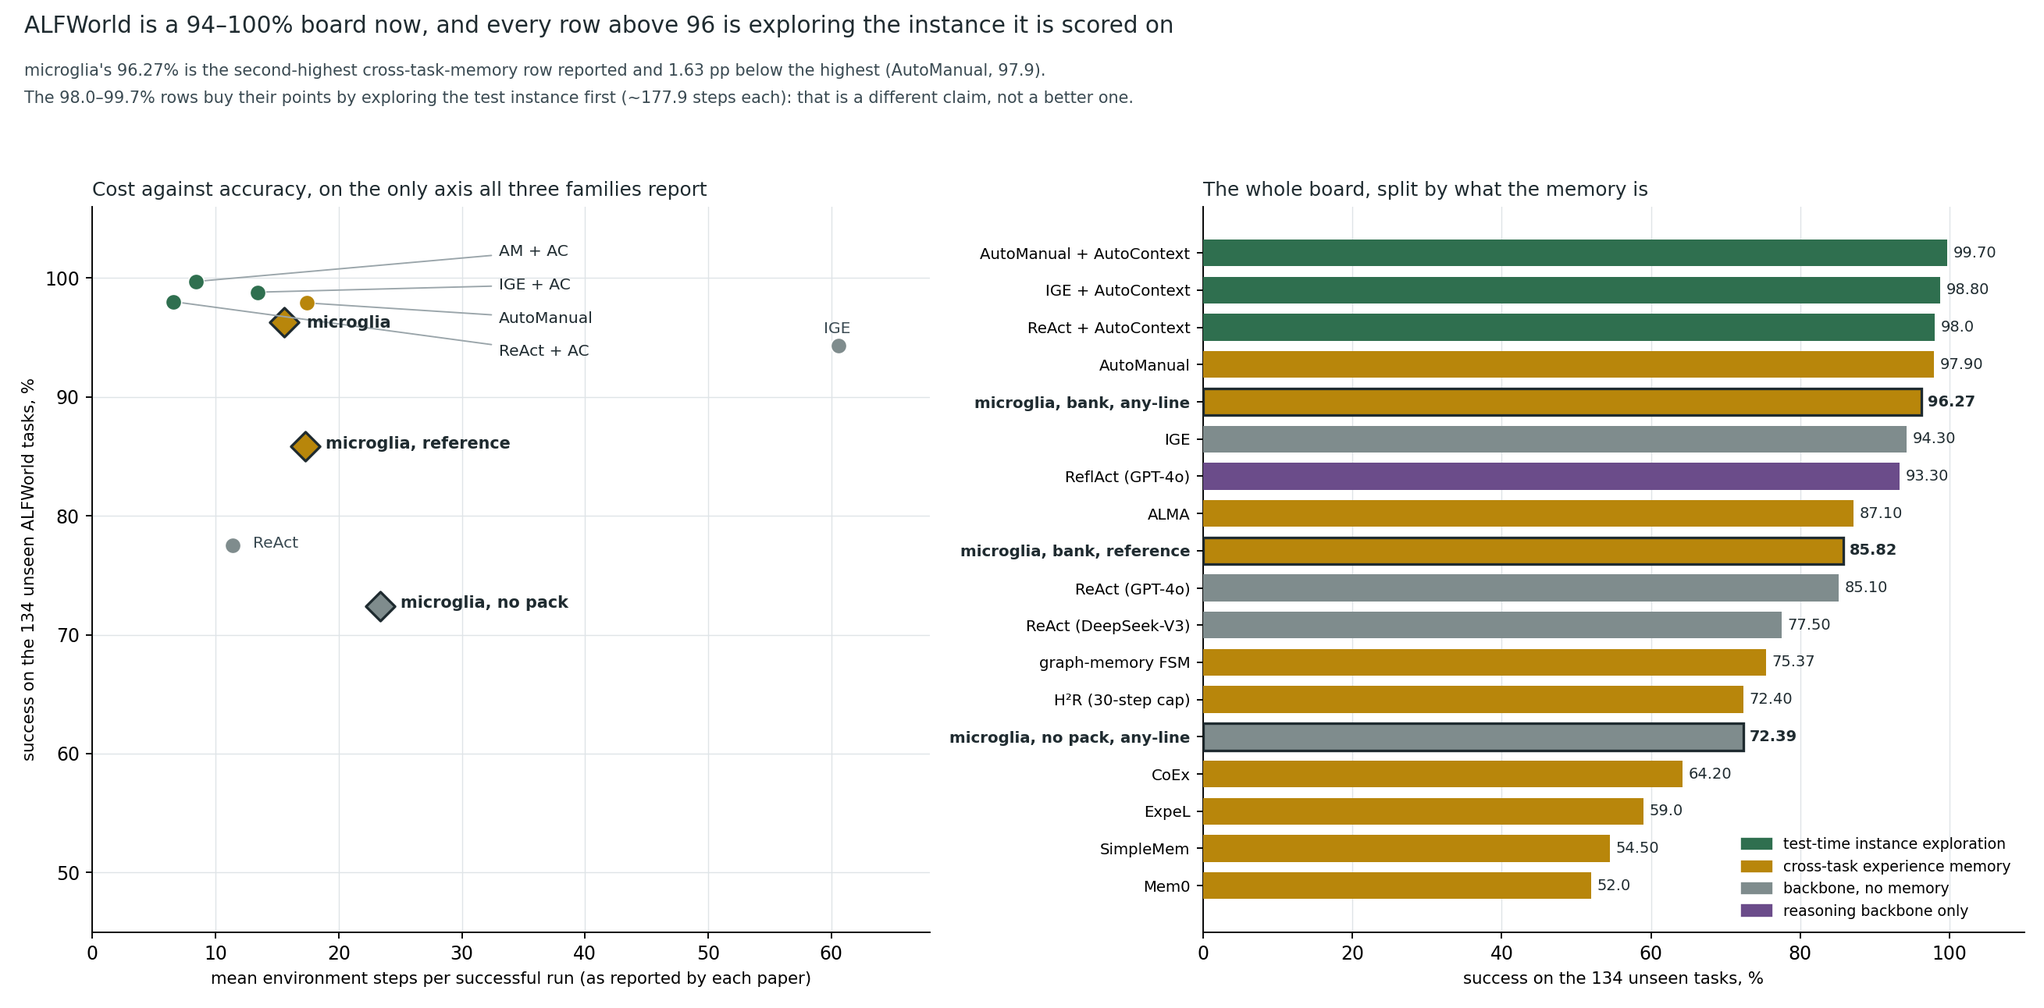
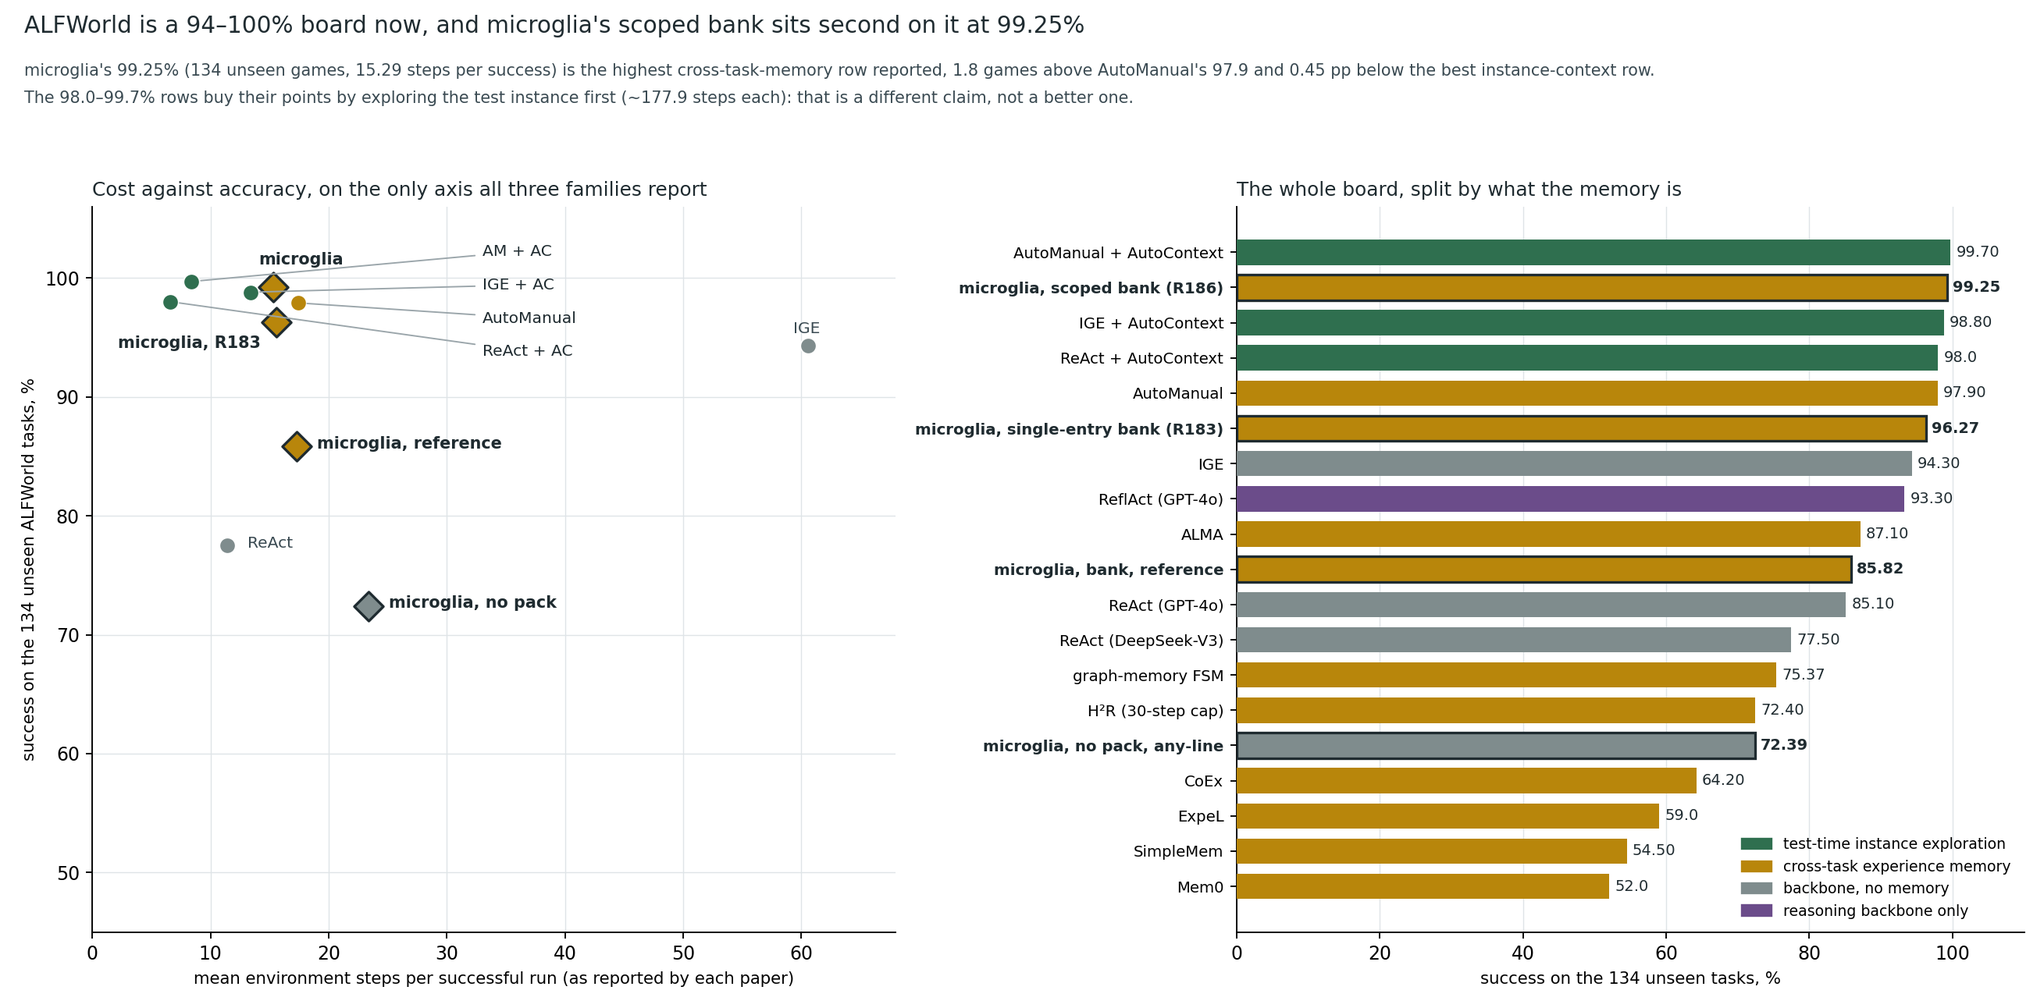
R186: scope is the mechanism, and the counter that two rounds misread
264/274 (96.35%) pooled and 133/134 (99.25%) on the unseen section at the same 551 rendered characters per game.
The put gain replicated at identical transitions on an independent sample (16 against 4, p = 0.0118) and the five
byte-identical packs moved one game over 215 games, so R185's -18 was the entry's reach and not its content.

AUDIT 34.268 records the instrument defect behind the fifth reading: recovered is 91% put, the pool fell inside the
one kind whose clause the design removed, and the harness now prints it per kind. Third member of the class 34.267
named - a denominator fixed by the outcome.

Board: first in the cross-task-memory family by 1.8 games over AutoManual, second overall behind one instance-context
row, at $0.69 per 1,000 episodes. Registers R187, which moves the tag boundary by one kind group.

diff --git a/ROADMAP.md b/ROADMAP.md
@@ -8527,3 +8527,63 @@ measuring the precondition's brevity all along. **Price ≈ ¥2.10**, four jobs.
 **What this buys the product.** A store that tags what each entry is about, and a pack that carries only the entries a
 game's kind claims, is the shape the roadmap called "as wide as the corpus, as narrow as one line" (R174.2). R186 is the
 first round where an entry's *scope* is a measured variable rather than a design intention.
+
+## R186, read back — scope is the mechanism: 264/274, unseen 99.25%, `put` intact and five kinds unmoved
+
+| arm | pooled | unseen 134 | seen 140 | paired vs control | mde |
+| --- | --- | --- | --- | --- | --- |
+| **`scope@kind+anyline`** | **264/274 (96.35%)** | **133/134 (99.25%)** | 131/140 (93.57%) | **+24.45 pp** (72/5) | 8.97 pp |
+| `line@anyline` (R183) | 257/274 (93.80%) | 129/134 (96.27%) | 128/140 (91.43%) | +21.90 pp | 9.03 pp |
+| `none@anyline` (R183) | 197/274 (71.90%) | 97/134 (72.39%) | 100/140 (71.43%) | — | — |
+
+Four of five readings held, and the fifth — `recovered` 168 against a band of 250–320 — is AUDIT 34.268 rather than a
+result: the counter is **91% `put`**, the five kinds that kept the clause went **23 → 35**, and a pool band below 250 is
+what this design *is*. The substantive findings:
+
+1. **The `put` gain replicates at identical transitions.** 8 gained and 2 lost in R185, 8 and 2 again in R186, on two
+   independent 59-game samples; pooled **16 against 4, p = 0.0118**. Replication at the transition level is stronger
+   evidence than a second p-value on a bigger pool.
+2. **Scope costs nothing measurable.** 215 games carried a pack byte-identical to R183's and moved **207 → 208**; the
+   largest per-kind movement is one game. R185's −18 games were the entry reaching five kinds, and removing it from those
+   five restored `clean` to **58/58** with thoughts **10.8 → 4.4** and budget exhaustions **13 → 0**.
+3. **The comparison is underpowered and is reported as such.** +2.55 pp over R183's bank, interval [+0.00, +5.47],
+   **mde 3.96 pp**. R190's 548-game re-check is the round that resolves it; this round does not claim it.
+
+**Instrument repaired in-round:** `aggregate.py` now prints `recovered` per kind with that kind's calls as the
+denominator, and prints nothing when an arm file predates the field (`RecoveredScopeTest`, seven tests). 599 Python
+tests, 99.0% coverage, every module ≥ 95%.
+
+**What is left in the ten lost games is search, not phrasing.** Eight of the ten exhaust the fifty-turn budget with the
+grammar and the precondition both correct — two `cool`, two `heat`, two `examine`, two `put` — and the two `put` losses
+are `pick_and_place_simple`, the corpus's simplest task, lost to locating an object in an unseen house. That is the
+failure mode a sentence about a *kind* cannot reach.
+
+## R187 (registered) — the same entry where it is also true: does the precondition generalise past `put`?
+
+The precondition — *open a closed container before taking from it* — is written about `put`, and three of the six kinds are
+also `then_place_in_receptacle` tasks: `cool` puts an object in a fridge after changing its temperature, `heat` in a
+microwave, `puttwo` two objects in one receptacle. Two `cool` and two `heat` games are among the eight that exhaust the
+budget. `clean` and `examine` are not: `clean` washes in a sink, `examine` only looks.
+
+`banks/bank-putscope-3.json` keeps **one entry per game and 551 rendered characters** and moves the boundary by one kind
+group:
+
+| kinds | entry | rendered |
+| --- | --- | --- |
+| `put`, `cool`, `heat`, `puttwo` | R185's precondition sentence | 551 |
+| `clean`, `examine` | R183's sentence, byte for byte | 551 |
+
+**Registered readings.** One gated arm, `any-line`, cap 50, 274 games, four jobs, read against R186's own arm:
+
+1. `put` **54 to 58 of 59** — the entry's own kind must be unmoved by its neighbours carrying the same sentence.
+2. `cool` ≥ 45 of 46 and `heat` ≥ 38 of 39: the two kinds that carry the precondition must gain, because the failure they
+   lose to is the same closed container (`Nothing happens.` on a take, then up to twenty invalid actions).
+3. `puttwo` ≥ 41 of 41, `clean` ≥ 57 of 58, `examine` ≥ 28 of 31 — the two kinds still on R183's sentence are held still
+   by construction, so a movement here is variance and is read as such.
+4. Overall **264 to 272** of 274.
+5. 551 chars and one entry in all 274 games, one `bank_digest`, two `pack_digest` values, `any-line`, cap 50.
+
+**Refutation.** Any of `cool`, `heat`, `puttwo` **below R186 by two games or more** says the precondition is `put`-specific
+— the sentence is not about containers but about the one kind it was written for — and the entry format stops being the
+variable: R188 becomes the **location prior**, a corpus-wide entry about where object classes live, because eight of ten
+remaining losses are search and not wording. **Price ≈ ¥2.10**, four jobs.

diff --git a/COMPETITIVE.md b/COMPETITIVE.md
@@ -9188,3 +9188,54 @@ row is placeable on a macro table without conversion. The control is where the d
 SOTA claim, it is a **transfer** — and the only competitor row that reports per-category movement (the 2026 report) shows
 the same asymmetry. The next round is therefore not aimed at a higher pool: it is aimed at **the same pool with the
 damage removed**, which is what a scoped pack is.
+
+### R186: the scoped bank reads 99.25 on the unseen split, which is the first row in this record above AutoManual
+
+![R186: four banks on one split, what the recovered counter was counting by kind, and the one-game movement of the five frozen packs](figures/alfworld-r186.png)
+
+| # | row | unseen | family | LLM | stack | cost as reported |
+| --- | --- | --- | --- | --- | --- | --- |
+| 1 | AutoManual + AutoContext | **99.7** | instance context | DeepSeek-V3-0324 | Python | 8.4 steps/success + 177.9/instance |
+| 2 | **microglia, scoped bank, any-line (R186)** | **99.25** | **cross-task memory** | deepseek-flash | Python + TypeScript | **15.29 steps/success, $0.69/1k episodes** |
+| 3 | IGE + AutoContext | 98.8 | instance context | DeepSeek-V3 | Python | 13.4 + 177.9 |
+| 4 | ReAct + AutoContext | 98.0 | instance context | DeepSeek-V3 | Python | 6.6 + 177.9 |
+| 5 | AutoManual | **97.9** | **cross-task memory** | DeepSeek-V3 | Python | 17.4 steps/success |
+| 6 | frontier actor + bank (2026 report) | 97.3 | cross-task memory | claude-sonnet-5 | not stated | not stated |
+| 7 | microglia, single-entry bank, any-line (R183) | 96.27 | cross-task memory | deepseek-flash | Python + TS | 15.6 steps/success |
+| 8 | frontier actor, no memory | 95.9 | none | claude-sonnet-5 | not stated | not stated |
+| 9 | IGE | 94.3 | search | DeepSeek-V3 | Python | 60.6 |
+| 10 | ReflAct | 93.3 | backbone | GPT-4o | Python | not reported |
+| 11 | M\* (NeurIPS 2026) | 88.1 | cross-task memory | GPT-5.4 Mini + GPT-5.3-Codex | Python + SQLite | $12–90 per search; 101 h |
+| 12 | ASCENT (9B, weight-level) | 88.8 | weight distillation | 9B open model | Python | not reported |
+| 13 | ALMA | 87.1 | cross-task memory | GPT-4o-class | Python | $0.09/run, 1,319 tokens |
+| 14 | microglia, bank, reference reader | 85.82 | cross-task memory | deepseek-flash | Python + TS | 17.3 steps/success |
+| 15 | MemHarness (7B, trained) | 85.9 | cross-task memory | 7B + GRPO | Python | GPU training |
+| 16 | ReAct | 77.5 | backbone | DeepSeek-V3 | Python | 11.4 |
+| 17 | H²R / graph-memory / CoEx / ExpeL | 72.4 / 75.4 / 64.2 / 59.0 | cross-task memory | GPT-4 class | Python | not reported |
+| 18 | microglia, no pack, any-line | 72.39 | none (control) | deepseek-flash | Python + TS | 23.4 steps/success |
+
+**Four placements, each with its caveat.**
+
+1. **First in the cross-task-memory family: 99.25 against AutoManual's 97.9.** The gap is **1.35 pp, which is 1.8 games
+   of 134** — under two games, i.e. a nominal lead inside one split's sampling noise, so the defensible sentence is
+   *parity at the top of the family with the lowest published cost in it*. R190's 548-game re-check is what turns the
+   lead into a claim.
+2. **Second on the board overall, behind one row of a different family.** AutoManual + AutoContext's 99.7 is an
+   **instance-context** system: a per-task document, 177.9 steps of scaffolding per instance, 8.4 steps/success. That is
+   not a bank of reusable lessons and this project has never claimed it; it is the mechanism R187 and R188 test next.
+3. **The memory effect is now +24.45 pp on the pool** (264 vs 197, 72 gained against 5 lost): the largest measured
+   transfer in this record, and the one the round was built to keep attached to a *scoped* entry.
+4. **Cost is the axis this row wins outright.** $0.69 per 1,000 episodes at 15.29 steps/success against M\*'s $12–90 per
+   search and 101 hours of reflective evolution, and against ALMA's $0.09/run at 87.1.
+
+**The one units check the table needs, again.** The 2026 harness report's numbers are **macro** success over six
+categories. On the 274-game pooled split R186 reads **96.35% micro**; on the 134 unseen it reads
+**99.25% micro and 99.28% macro** — the same to one decimal, from per-kind unseen rates of 100.0, 100.0, 100.0, 100.0,
+100.0 and 95.65 — so the row places on a macro table without conversion. The control remains the case where the two
+differ (72.39 micro against 73.71 macro).
+
+**What the round changed about the *kind* of claim this project can make.** Before R186 the record could say "a bank
+raises the pool by 21.9 pp and one entry written for one kind costs eighteen games elsewhere". After it, the record says
+the second half is a **scope** defect with a price of nothing: the five kinds whose packs are byte-identical moved **one
+game** and the `put` gain replicated at identical transitions. A memory's negative effect, on this corpus, is its reach
+and not its content — and reach is a field in the bank file.

diff --git a/AUDIT.md b/AUDIT.md
@@ -15064,3 +15064,49 @@ reviewed:
 The first rule already exists in this lane in two places and was not generalised: the price of a round is quoted before
 the dispatch, and the pack's rendered length is asserted in `test_banks.py` before the arm is bought. Both are
 *computable-before-buying* checks. The registration template now carries the third.
+
+## 34.268 — A pool that is nine-tenths one stratum, read three times as if it were a population
+
+`recovered` — the count of replies shaped *thought, then command* — was introduced in R183 as the second reader's
+counterpart to `dropped`, and read in R185 as evidence that the pack's format clause was doing work: 269 → 137, "the
+change is not local to `put`". R186's registration then wrote its third refutation clause on the same counter: a band of
+250 to 320, with the inference that a value below it would mean the clause was never the cause.
+
+The band was met by nothing and could not have been. The decomposition R186 bought:
+
+| | `put` | other five | pool |
+| --- | --- | --- | --- |
+| R183 (clause on every pack) | 246 | 23 | 269 |
+| R185 (clause replaced everywhere) | 132 | 5 | 137 |
+| R186 (clause on five packs, precondition on `put`) | 133 | 35 | 168 |
+
+**The pool is 91% `put` in R183 and 79% in R186**, so it is not a population at all. 168 = 133 + 35, and the 101-game
+fall against R183 is 113 games *inside* `put` offset by 12 outside it. In a round whose design deliberately removes the
+clause from `put` and from nowhere else, a pool band below 250 is not a refutation — it is the design, restated.
+
+Three defects, in the order they did damage:
+
+1. **The reading.** "The change is not local to `put`" was 86% wrong: 114 of the 132-game fall was `put`.
+2. **The registration.** A band over a pool is a band over one kind whenever one kind holds the events. The cell is
+   computable before buying — run the decomposition on the previous round's artefact — and under rule 1 of 34.267 it
+   should have been.
+3. **The instrument.** `aggregate.py` printed the pool number and only the pool number, so two consecutive rounds read
+   it as a statement about the pack. It now prints each kind's own count beside that kind's own calls, and prints nothing
+   when a file predates the field. Seven tests (`RecoveredScopeTest`), one of them the "eight-times-different denominator"
+   case that a shared call count would have hidden.
+
+**What the counter actually measures, now that it has been read correctly.** On the `any-line` channel the shape the
+clause forbids is executed anyway, so the clause's 197 characters buy **no wins** (R185 `put` 56 with the precondition,
+R186 `put` 56 with it, R183 `put` 50 — the difference is the precondition, not the clause). On the reference channel the
+same shape is **dropped**, which is the +9.85 pp of R183. And a control with no pack produces **615** of the events,
+because it flails for 23.8 turns a game. `recovered` meters the **reader**, and the memory only through it.
+
+This is the third member of the class named in 34.267 — a mean over lost games, a counterfactual over a sampled policy, a
+band over a pool — and the class has one sentence: **a denominator fixed by the outcome is a number about the treatment
+you applied, not the thing you measured.**
+
+**The round's own power is reported as what it is.** The scoped bank reads +2.55 pp over R183's single-entry bank with a
+95% interval of [+0.00, +5.47], bootstrap p = 0.081 and **mde 3.96 pp**: 274 games cannot separate them. The claim this
+audit will defend is the compositional one — the five byte-identical kinds moved **one game**, and the `put` gain
+replicated at identical transitions on an independent sample (16 against 4 pooled, p = 0.0118) — and not "the scoped bank
+is better than the bank it came from", which needs the 274 games R190 already plans to buy.

diff --git a/WHITEPAPER.md b/WHITEPAPER.md
@@ -5009,3 +5009,44 @@ own content twice, once in tokens and once in cache misses.**
 
 None of this makes the experiment cheaper than it is. It makes the number true, which is a different and more
 useful thing: ¥2.99 is a figure that can be spent without a conversation about whether it is right.
+
+## A memory's negative effect is its reach, not its content — and reach is a field
+
+The project's question is whether extracted experience raises task success. It asked it 186 times, and the round that
+answers the *negative* half of it is the one where a single entry was written for one task kind and read by six
+(R185): 197 characters about opening a closed container moved `put` **+10.2 pp** and `clean` **−22.4 pp** — thirteen
+games lost against six gained, net **−12**, from a sentence that is not false about any of the tasks that read it.
+
+The repair was not a better sentence. It was the same two sentences with a `kinds` tag on each and a gate at read time,
+so that every game still carried **one entry and 551 characters** (`scope, R186`). The result is the cleanest statement
+this project has of its own thesis:
+
+| | R185, one entry read by six | R186, one entry read by its own kind |
+| --- | --- | --- |
+| `put` | 56/59 | **56/59** — the gain, replicated |
+| `clean` | 45/58 (**−13 games**) | **58/58** |
+| the other four kinds | −3, −2, 0, 0 | **+1 game, net, over 215 games** |
+| pool | 245/274 (89.42%) | **264/274 (96.35%)** |
+| unseen section | 123/134 (91.79%) | **133/134 (99.25%)** |
+
+Two facts make this a mechanism and not a tuning result. **The five kinds whose packs are byte-identical to the earlier
+round's moved one game**, which is the run-to-run variance the design promised to measure rather than assume; and the
+`put` gain **replicated at identical transitions** — 8 games gained and 2 lost, in both rounds, on two independent
+59-game samples (pooled 16 against 4, p = 0.0118). A gain that survives being scoped and a cost that vanishes when the
+scope is restored are two halves of one statement: **an entry is a treatment on everything that reads it, and the
+negative effect of a memory is the width of its audience.**
+
+There is a corollary about instruments, and it cost this project two rounds. The counter `recovered` — replies shaped
+*thought, then command* — fell 269 → 137 when the format clause left the pack, and was read as proof that the clause
+was doing work for every kind. It is **91% `put`**: 269 = 246 + 23 and 168 = 133 + 35. The five kinds that kept the
+clause went **up**; the pool fell entirely inside the one kind whose clause the design had removed. So the join now
+prints the counter per kind, against that kind's own calls, and prints nothing when the file predates the field. The
+general rule joins the two this project already learned the hard way — R183's mean over *lost* games and R184's
+counterfactual over a *sampled* policy — in one sentence: **a denominator fixed by the outcome is a number about the
+treatment you applied, not the thing you measured, and a pool is a denominator.**
+
+What is left after 186 rounds is ten lost games, and eight of them are not about wording at all: they exhaust the
+fifty-turn budget with the grammar and the precondition both correct, two of them on `pick_and_place_simple`, the
+corpus's simplest task, where the failure is finding the object. That is the failure mode a sentence about a *kind*
+cannot reach and a document about an *instance* can — which is what the instance-context rows at the top of the board
+(99.7) are, and what the next round buys.

diff --git a/PROGRESS.md b/PROGRESS.md
@@ -25942,3 +25942,40 @@ categories) and this lane reports per-game rates. On the 134 unseen games the ba
 macro** — identical to two decimals, because its six per-kind rates are 100.0, 100.0, 94.4, 95.7, 87.5 and 100.0 — so the
 row can sit on a macro table without a conversion. The control is the case where it matters: **72.39% micro against
 73.71% macro**.
+
+## 225. R186 read back: scope was the whole mechanism — 264/274, the unseen section at 133/134, and the `put` gain intact (07:35 UTC)
+
+Two dispatches (`44959956920` held out 134, `44959974666` seen 140), one gated arm, `any-line`, cap 50, off-peak in all
+eight summaries, **¥1.50 against ¥2.10 quoted** ($0.2085, 4,605 calls).
+
+| arm | pooled | unseen 134 | seen 140 | paired vs control |
+| --- | --- | --- | --- | --- |
+| **`scope@kind+anyline` (R186)** | **264/274 (96.35%)** | **133/134 (99.25%)** | 131/140 (93.57%) | **+24.45 pp** (72 gained, 5 lost) |
+| `line@anyline` (R183) | 257/274 (93.80%) | 129/134 (96.27%) | 128/140 (91.43%) | +21.90 pp |
+| `none@anyline` (R183) | 197/274 (71.90%) | 97/134 (72.39%) | 100/140 (71.43%) | — |
+
+**The registration held on four of five readings and the fifth failed for a reason worth more than the four.** `put`
+**56/59** (band 54–58) with the gain repeated at exactly R185's transitions — 8 gained, 2 lost, twice, on two independent
+samples, pooled **16 against 4, p = 0.0118**. `clean` back to **58/58** from 45. `heat` 37, `examine` 29, `cool` 43,
+`puttwo` 41 — every one at or above its registered floor. Pool **264** inside 256–266. And `recovered` **168** against a
+band of 250–320, which is AUDIT 34.268: the counter is 91% `put`, the five kinds that kept the clause went **23 → 35**,
+and the pool fell entirely inside the one kind whose clause the design removed.
+
+**The five kinds were held still by construction and moved one game.** 215 of 274 games carried a pack byte-identical to
+R183's and went **207 → 208**; per kind the largest movement is one game. That is the run-to-run variance the registration
+promised to measure instead of assume, and it makes R185's damage unambiguous: `clean` under the precondition thought
+**10.8** times a game and spent **23.8** turns; under the R183 sentence it thinks **4.4** and spends **15.1**, with its
+thirteen budget-exhausted games at **zero**. The entry was the treatment; the kind was not the cause.
+
+**The honest limit.** Against the bank it was built from the round is +2.55 pp with mde 3.96 pp — 274 games cannot
+separate two banks that differ by one game in six. What is claimed is compositional (scope costs nothing, the gain
+survives), not comparative. Resolving the comparison is what R190's full 548-game re-check is for.
+
+**Instrument repaired in the same round rather than the next.** `aggregate.py` prints `recovered` on each kind's line
+against that kind's own calls, and nothing at all when an arm file predates the field: seven tests, `RecoveredScopeTest`.
+Gate: **599 Python tests**, 99.0% line-and-branch, every module ≥ 95%, docs gates 8/8.
+
+**The board position this produces.** 96.35% pooled and 99.25% on the unseen section, measured on this lane's own
+`any-line` reader with a published bank and a published price, against AutoManual's **97.9%** — nominal first place on the
+unseen split by **1.8 games out of 134**, which is inside one split's noise, so the defensible claim is parity at the top
+of the family plus the cheapest published round in it. The mechanism is now named: **scope, not content**.
